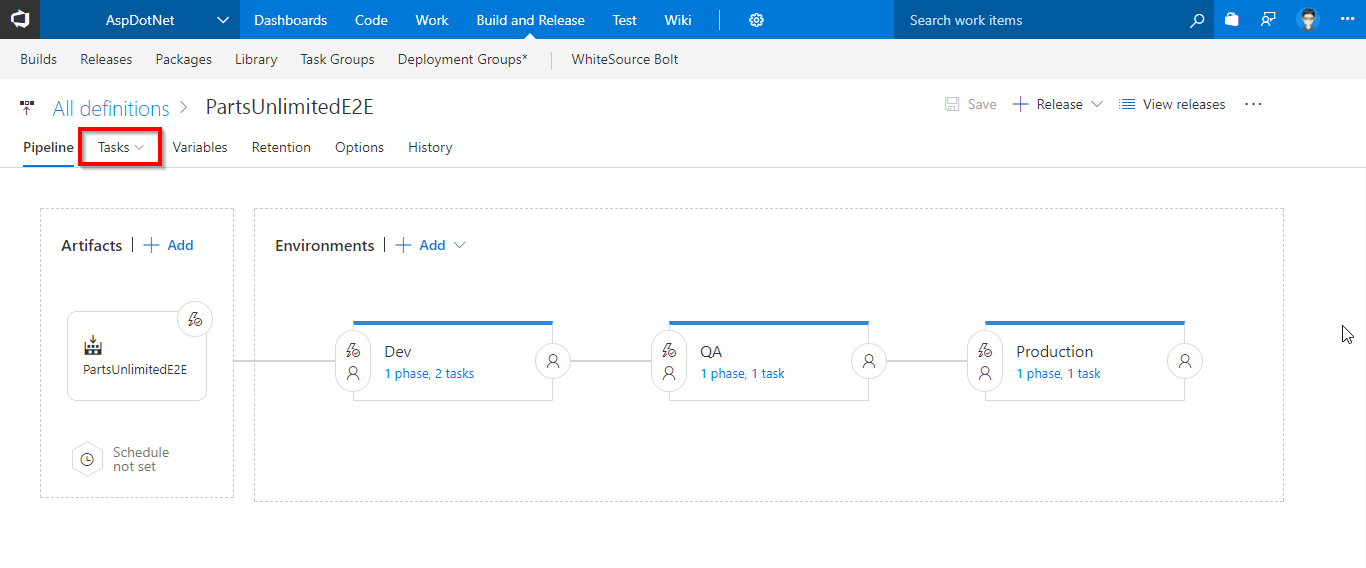
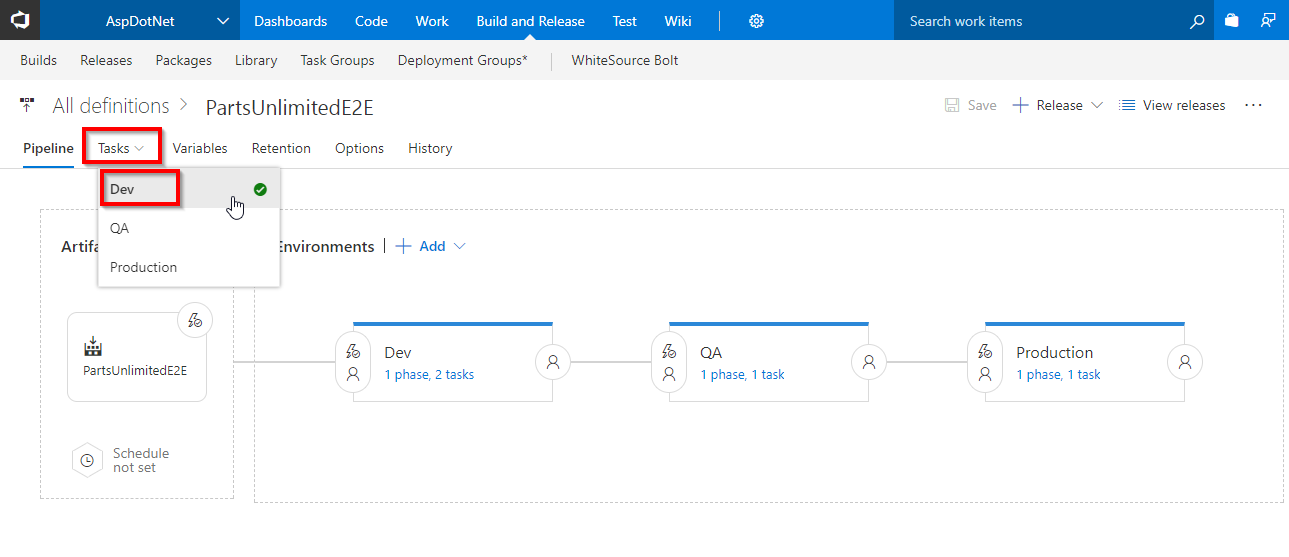
updated content

diff --git a/aspdotnet/README.md b/aspdotnet/README.md
@@ -8,12 +8,12 @@ ASP.NET is an open source web framework for building modern web apps and service
 
 1. **Microsoft Azure Account:** You will need a valid and active azure account for the labs
 
-2. You need a **Visual Studio Team Services Account** and <a href="http://bit.ly/2gBL4r4">Personal Access Token</a>
+2. You need a **Visual Studio Team Services Account** and <a href="https://docs.microsoft.com/en-us/vsts/accounts/use-personal-access-tokens-to-authenticate">Personal Access Token</a>
 
 
 ## Setting up the VSTS Project
 
-1. Use <a href="http://bit.ly/2zPCeOM" target="_blank">VSTS Demo Data Generator</a> to provision a project on your VSTS account.
+1. Use <a href="https://vstsdemobuildertest.azurewebsites.net/?name=PartsUnlimited" target="_blank">VSTS Demo Data Generator</a> to provision a project on your VSTS account.
 
    <img src="images/vsts_demo_site.png">
 
@@ -26,7 +26,7 @@ ASP.NET is an open source web framework for building modern web apps and service
 
 Since the connections are not established during project provisioning, we will manually create the endpoints.
 
-In VSTS, navigate to **Services** by clicking the gear icon, and click **+ New Service Endpoint**. Select **Azure Resource Manager**. Specify **Connection name**, select your **Subscription** from the dropdown and click **OK**. We use this endpoint to connect **VSTS** with **Azure**.
+In VSTS, navigate to **Services** by clicking the gear icon <img src="images/gear.png"> and click **+ New Service Endpoint**. Select **Azure Resource Manager**. Specify **Connection name**, select your **Subscription** from the dropdown and click **OK**. We use this endpoint to connect **VSTS** with **Azure**.
 
    <img src="images/endpoint_creation.png">
 
@@ -38,21 +38,39 @@ In VSTS, navigate to **Services** by clicking the gear icon, and click **+ New S
 
 Now that connections are established, we will manually map the endpoints to release definition.
 
-1. Go to **Releases** under **Build & Release** tab, edit the release definition **PartsUnlimitedE2E** and select **Tasks**.
+1. Go to **Releases** under **Build & Release** tab, edit the release definition **PartsUnlimitedE2E**.
 
    <img src="images/release.png">
 
-   <br/>
+2. Select **Tasks** and click **Dev**.
 
    <img src="images/release_2.png">
 
-2. Under **Azure Deployment** task, update **Azure subscription** with the endpoint components from the dropdown and select the desired **location**.
+3. Under **Azure Deployment** task, update **Azure subscription** with the endpoint components from the dropdown and select the desired **location**.
+
+   >Note: South India region is not available for the deployment
 
    <img src="images/task1.png">
 
-3. Under **Azure App Service Deploy** task, update **Azure subscription** with the endpoint components from the dropdown.
+4. Under **Azure App Service Deploy** task, update **Azure subscription** with the endpoint components from the dropdown. Under the **Slot** section enter the slot name as **Dev**.
 
    <img src="images/task2.png">
+
+5. Similarly update **Azure subscription** with the endpoint components for **QA** and **Production** environments. Go to **Tasks** and select **QA**.
+
+   <img src="images/qa.png">
+
+6. Under **Azure App Service Deploy** task, update **Azure subscription** with the endpoint components from the dropdown. Under the **Slot** section enter the slot name as **Staging**.
+
+   <img src="images/qa_task.png">
+
+7. Go to **Tasks** and select **Production**.
+
+   <img src="images/prod_task.png">
+
+8. Under **Azure App Service Deploy** task, update **Azure subscription** with the endpoint components from the dropdown and click **Save** to save the release definition.
+
+   <img src="images/prod_task2.png">
 
 ## Exercise 3: Update Code
 
@@ -114,9 +132,16 @@ We will update the code to trigger CI-CD.
    </table>
    <br/>
 
+   
+8. Click on the build number to open the live console.
+
+   <img src="images/build_number.png">
+   
+   <br/>
+
    <img src="images/build_in_progress.png">
 
-8. Once the build is complete, you will see the summary which shows **Test Results, Code Coverage** etc as shown.
+8. Once the build is complete click on the build number, to see the summary which shows **Test Results, Code Coverage** etc as shown.
 
    <img src="images/build_summary.png">
 
@@ -142,17 +167,21 @@ We will update the code to trigger CI-CD.
 
    >- **Azure App Service Deploy**: The task is used to deploy a Web project to the Azure App Service created above.
 
-4. Once the release is complete, you will see the summary.
+4. Click on **View releases**.
+
+   <img src="images/view_releases.png">
+
+5. Double click on the release to see the release summary.
+
+   <img src="images/release_summary1.png">
 
    <img src="images/release_summary.png">
 
-   <img src="images/release_logs.png">
-
-5. Login to [Azure Portal](https://portal.azure.com) and search a **Resource Group** with the name **ASPDOTNET**.
+6. Login to [Azure Portal](https://portal.azure.com) and search a **Resource Group** with the name **ASPDOTNET**.
 
    <img src="images/azure_resources.png">
 
-6. Navigate to one of the WebApp from the resource group and you will see the application deployed successfully with the changes.
+7. Navigate to one of the WebApp from the resource group and you will see the application deployed successfully with the changes.
 
    <img src="images/partsunlimited_overview.png">
 
